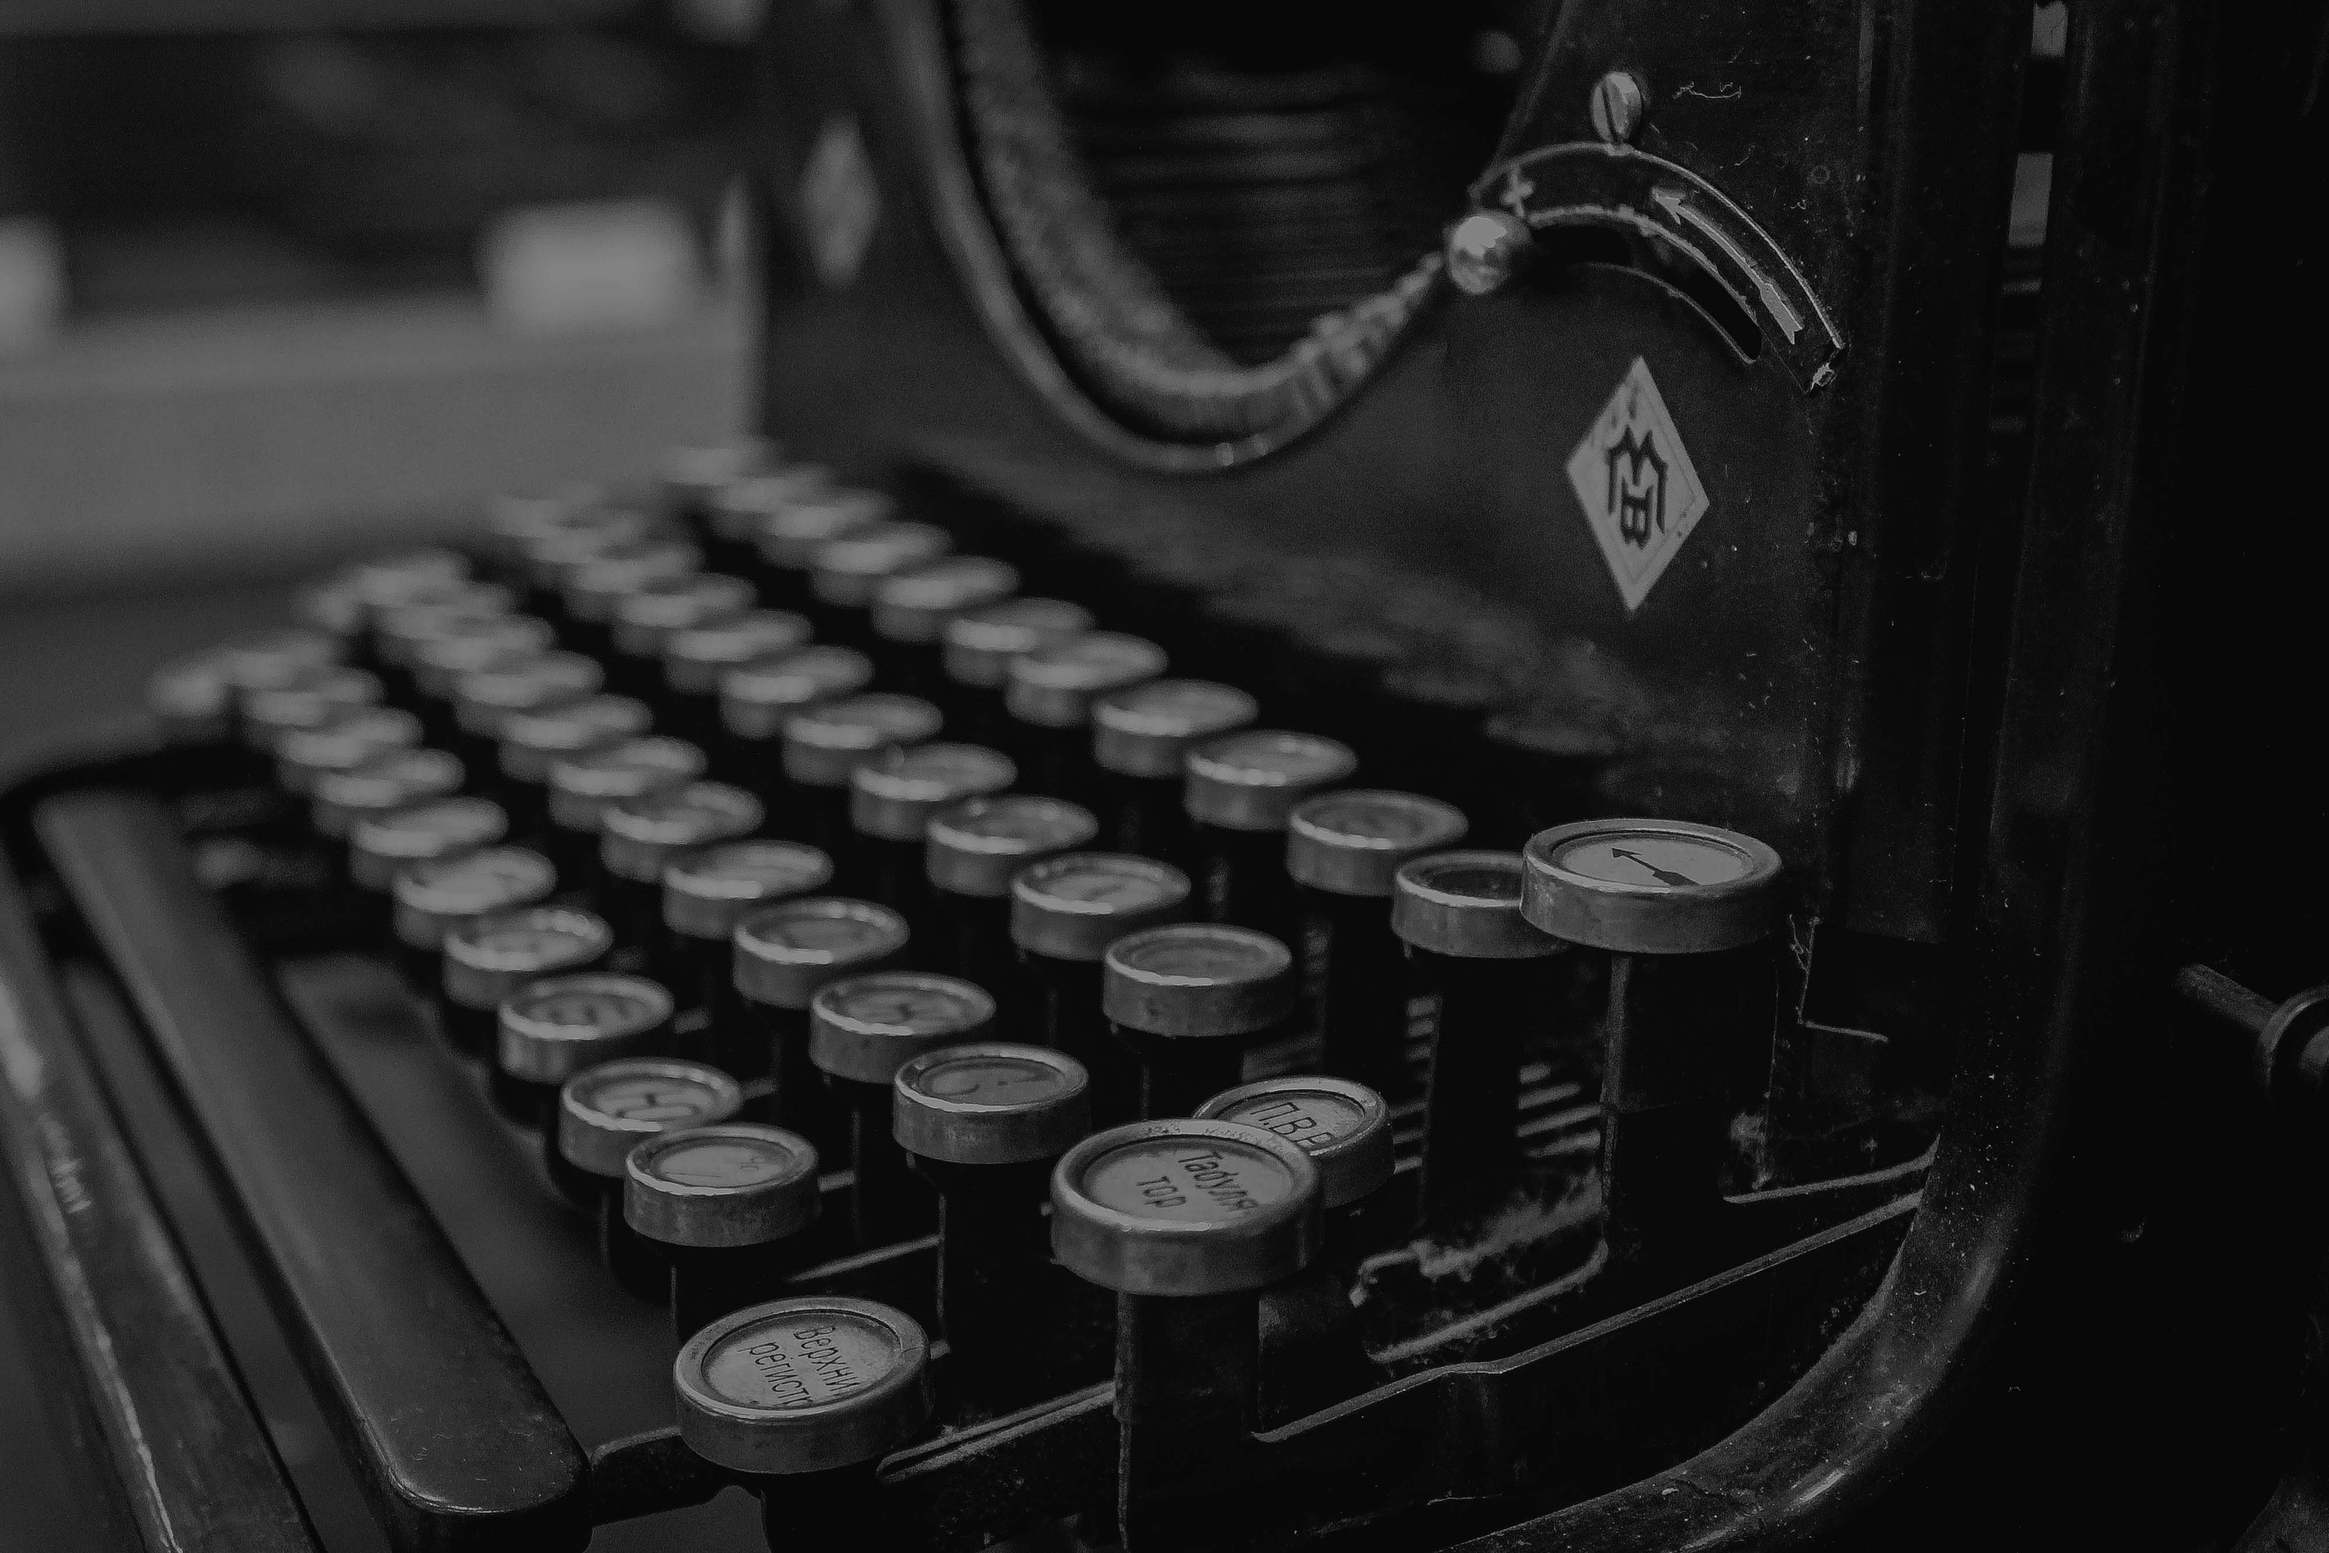
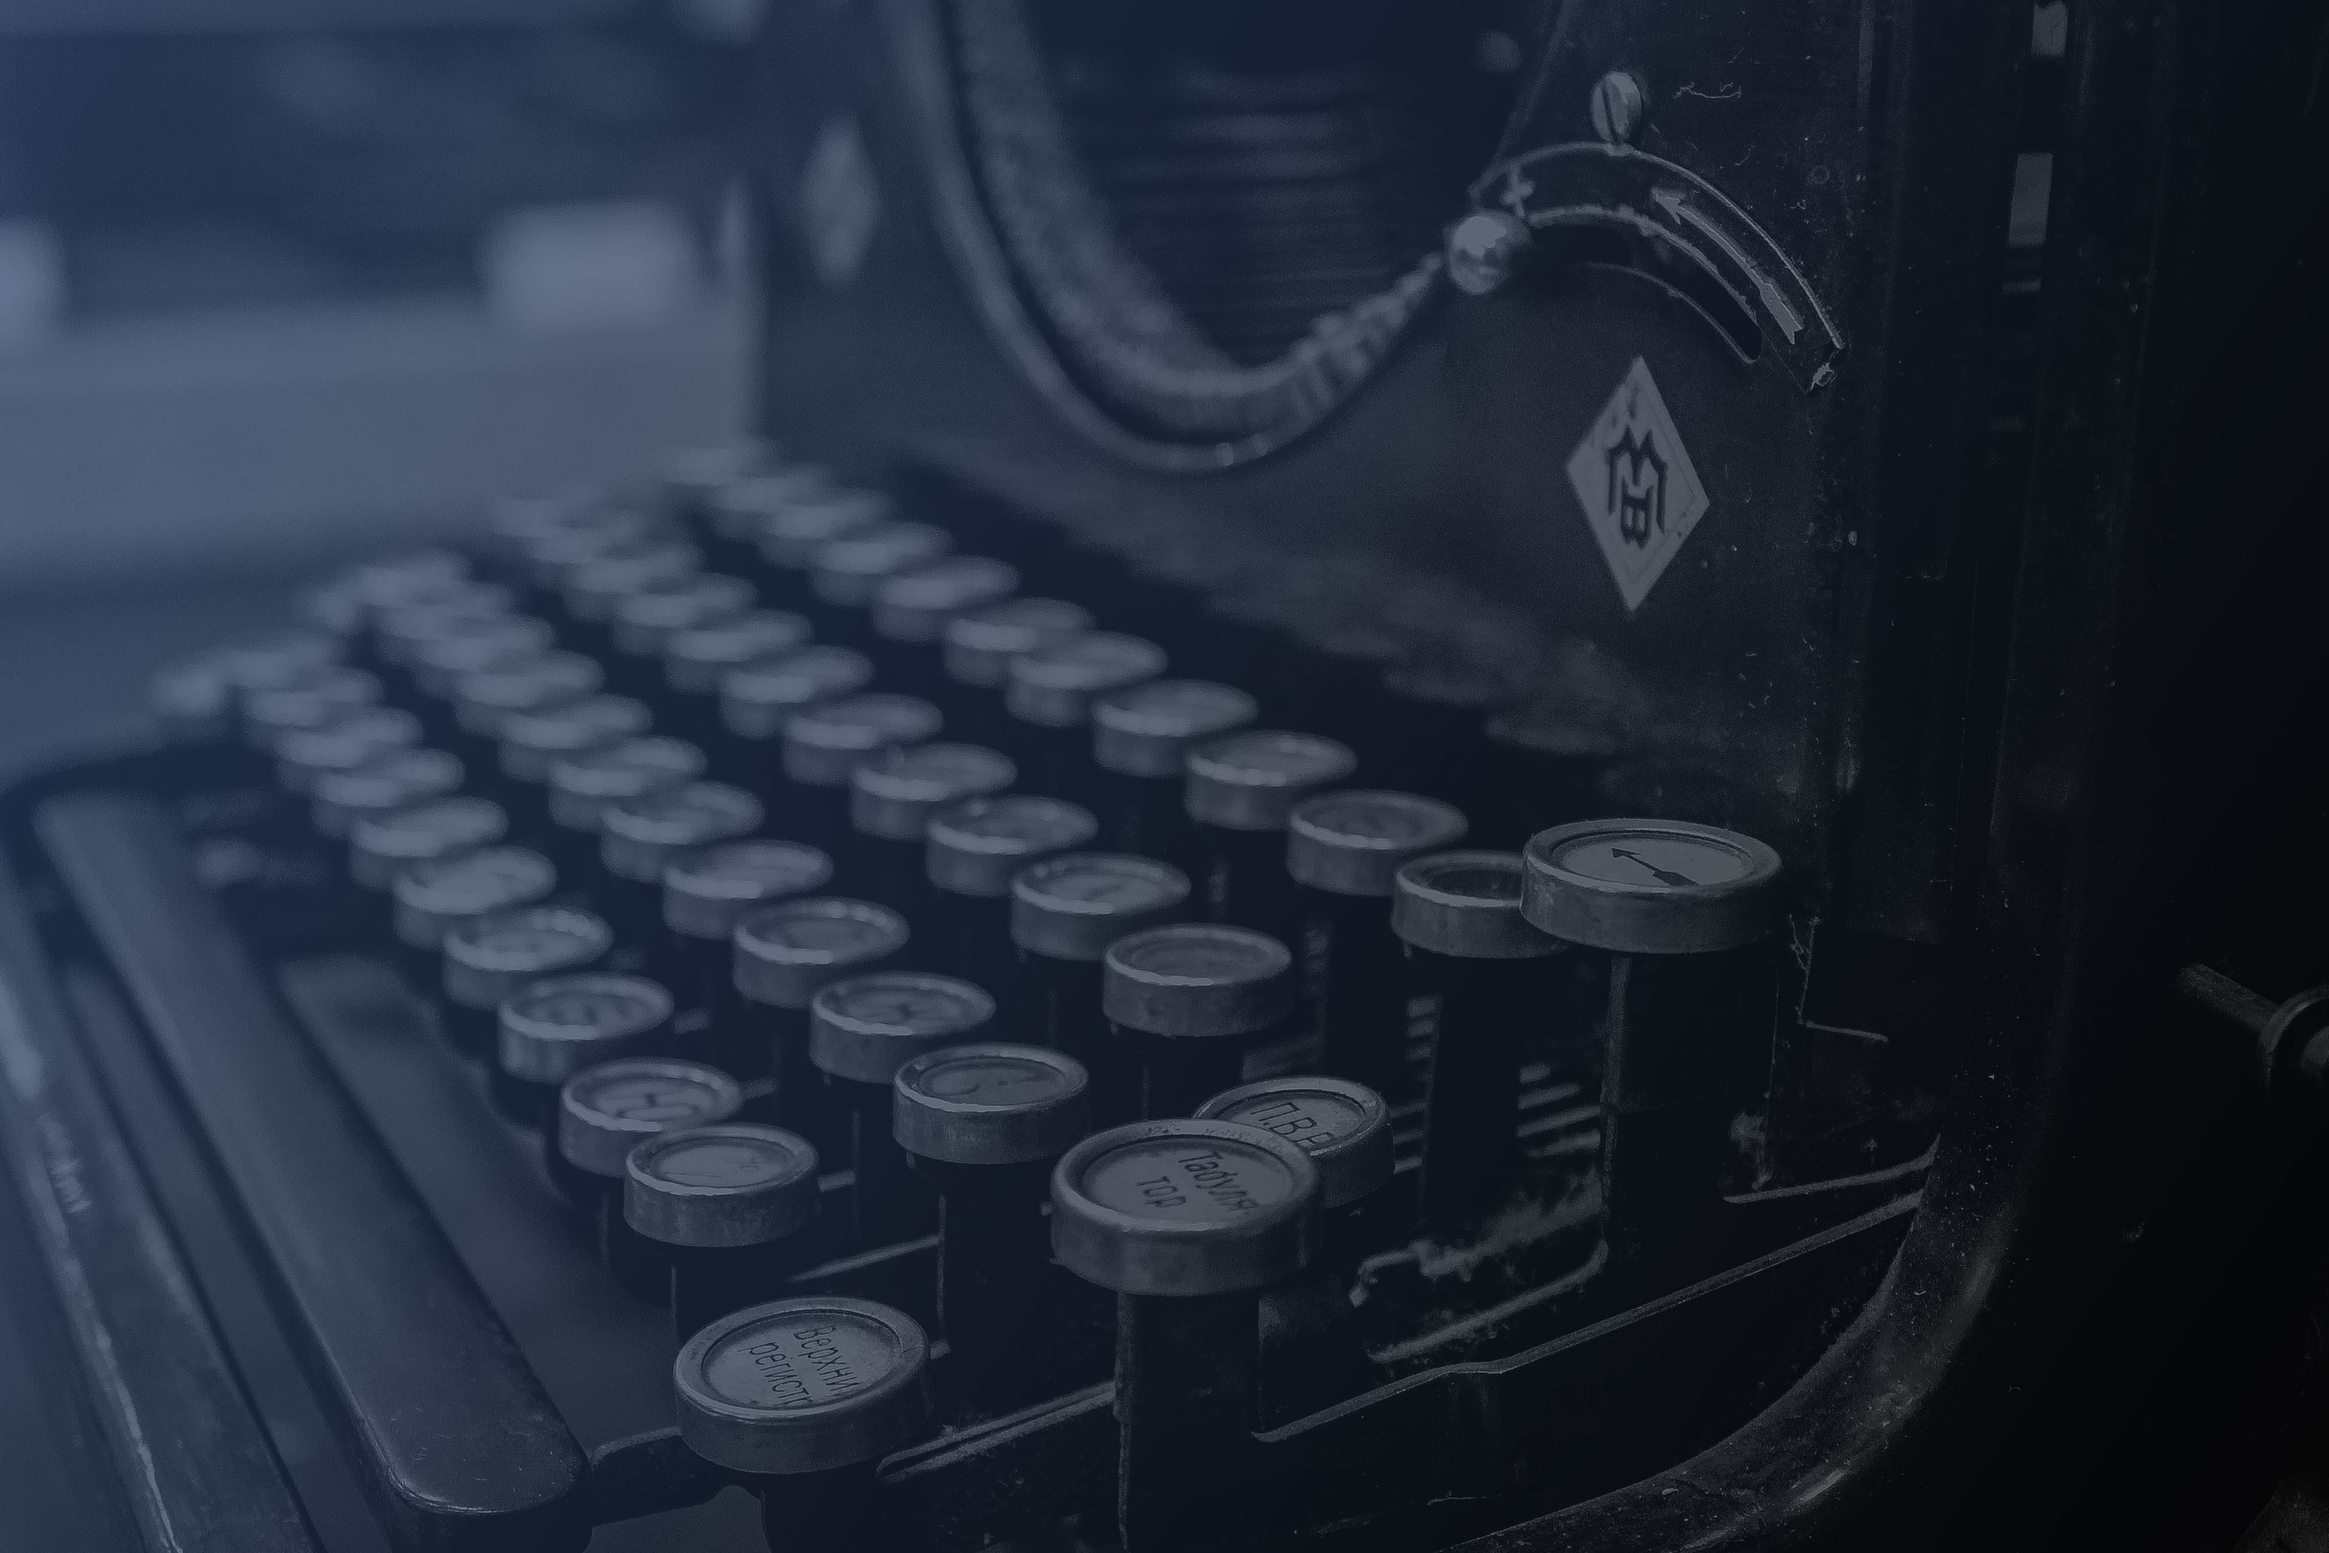
Added images to all pages and gave all images a blue tint + all improvements and changes have been done

diff --git a/css/main.scss b/css/main.scss
@@ -75,7 +75,7 @@ body {
 
 #our-creators--header {
 	position: relative;
-	background: #436aaf;
+	background: #4268ab;
 	height: 100px;
 	width: 100%;
 }
@@ -131,13 +131,12 @@ body {
 
 #apply {
 	position: relative;
-	background: #446cb3;
+	background: #4065a7;
 	height: 200px;
 	width: 100%;
 }
 
 #apply .btn-lg {
-	border-radius: 5px;
 	padding: 1% 15%;
 	margin-top: 55px;
 	margin-bottom: 55px;
@@ -269,15 +268,28 @@ p.copyright {
 
 /* About Page */
 
+.about-page {
+	position: absolute;
+	height: 100%;
+	width: 100%;
+  margin-top: -80px;
+  padding-bottom: 50px;
+  text-align: center;
+  background: url(../images/about-bg.jpg) no-repeat center center;
+  background-size: cover;
+	z-index: -1;
+}
+
 .letter {
   background: #fff;
   box-shadow: 0 0 10px rgba(0,0,0,0.2);
-  margin: 9% auto 0;
+  margin: 11% auto 0;
   max-width: 550px;
   min-height: 300px;
   padding: 24px;
   position: relative;
   width: 80%;
+	z-index: 999;
 }
 
 .letter h2 {
@@ -417,6 +429,39 @@ p.copyright {
 
 /* Compare Page */
 
+.compare-header {
+	margin-top: -80px; /* If you're making other pages, make sure there is 50px of padding to make sure the navbar doesn't overlap content! */
+	padding-bottom: 50px;
+	text-align: center;
+	color: #f8f8f8;
+	height: 200px;
+	background: url(../images/compare-bg.jpg) no-repeat center center;
+	background-size: cover;
+}
+
+.compare-message {
+	position: relative;
+	padding-top: 10%;
+	padding-bottom: 10%;
+}
+
+.compare-message > h2 {
+	margin: -25px 0;
+	text-shadow: 2px 2px 3px rgba(0,0,0,0.6);
+}
+
+@media(max-width:767px) {
+	.compare-message {
+			padding-bottom: 5%;
+	}
+}
+
+@media (max-width:467px) {
+	.compare-message > h2 {
+		margin: 25px 0;
+	}
+}
+
 .sub-title {
 	font-size: 10px;
 	margin: -5px -2px 0 0;
@@ -424,6 +469,8 @@ p.copyright {
 }
 
 .table th, .table td, .table {
+	margin-top: 30px;
+	margin-bottom: 30px;
 	border-top: none !important;
 }
 
@@ -459,7 +506,7 @@ tbody .kickback {
 	position: absolute;
 	height: 100%;
 	width: 100%;
-  margin-top: -30px;
+  margin-top: -80px;
   padding-bottom: 50px;
   text-align: center;
   color: #f8f8f8;
@@ -499,7 +546,7 @@ select.input-lg,
 	position: absolute;
 	height: 100%;
 	width: 100%;
-  margin-top: -30px;
+  margin-top: -80px;
   padding-bottom: 50px;
   text-align: center;
   color: #f8f8f8;
@@ -533,32 +580,33 @@ select.input-lg,
 }
 
 /* Jobs Page */
+
 .jobs-header {
-    margin-top: -30px; /* If you're making other pages, make sure there is 50px of padding to make sure the navbar doesn't overlap content! */
-    padding-bottom: 50px;
-    text-align: center;
-    color: #f8f8f8;
-    background: url(../images/jobs-bg.jpg) no-repeat center center;
-    background-size: cover;
+	margin-top: -80px; /* If you're making other pages, make sure there is 50px of padding to make sure the navbar doesn't overlap content! */
+	padding-bottom: 50px;
+	text-align: center;
+	color: #f8f8f8;
+	background: url(../images/jobs-bg.jpg) no-repeat center center;
+	background-size: cover;
 }
 
 .jobs-message {
-    position: relative;
-    padding-top: 10%;
-    padding-bottom: 10%;
+	position: relative;
+	padding-top: 10%;
+	padding-bottom: 10%;
 }
 
 .jobs-message > h1 {
-    margin: 0;
-    text-shadow: 2px 2px 3px rgba(0,0,0,0.6);
+	margin: 0;
+	text-shadow: 2px 2px 3px rgba(0,0,0,0.6);
 }
 
 .jobs-message > h3 {
-    text-shadow: 2px 2px 3px rgba(0,0,0,0.6);
+	text-shadow: 2px 2px 3px rgba(0,0,0,0.6);
 }
 
 @media(max-width:767px) {
-    .jobs-message {
-        padding-bottom: 5%;
-    }
+	.jobs-message {
+			padding-bottom: 5%;
+	}
 }

diff --git a/compare.html b/compare.html
@@ -3,11 +3,21 @@ layout: default
 permalink: compare/
 ---
 
+<div class="compare-header"> <!-- start intro header -->
+  <div class="container"> <!-- start intro container -->
+		<div class="row">
+			<div class="col-lg-12">
+				<div class="compare-message">
+					<h2>Compare Kickback to YouTube's Leading Networks.</h2>
+				</div>
+			</div>
+		</div>
+  </div>
+</div>
+
 <div class="container">
 	<div class="row">
 		<div class="col-xs-12">
-			<h2 class="text-center">Compare Kickback to YouTube's Leading Networks.</h2>
-			<hr>
 			<table class="table table-striped">
 				<thead class="text-center">
 					<tr class="logos">

diff --git a/_sass/kickback/_variables.scss b/_sass/kickback/_variables.scss
@@ -42,7 +42,7 @@ $link-hover-decoration: underline;
 //
 //## Font, line-height, and color for body text, headings, and more.
 
-$font-family-sans-serif:  "proxima-nova-soft",sans-serif;;
+$font-family-sans-serif:  "open-sans",sans-serif;
 $font-family-serif:       Georgia, "Times New Roman", Times, serif;
 //** Default monospace fonts for `<code>`, `<kbd>`, and `<pre>`.
 $font-family-monospace:   Menlo, Monaco, Consolas, "Courier New", monospace;

diff --git a/index.html b/index.html
@@ -17,7 +17,7 @@ layout: default
 														</a>
 													</li>
 													<li>
-														<a class="btn btn-primary btn-lg page-scroll" href="benefits.html">
+														<a class="btn btn-default btn-lg page-scroll" href="benefits.html">
 															Learn More
 														</a>
 													</li>

diff --git a/_sass/kickback/_bootswatch.scss b/_sass/kickback/_bootswatch.scss
@@ -2,6 +2,7 @@
 // Bootswatch
 // -----------------------------------------------------
 
+@import url(http://fonts.googleapis.com/css?family=Open+Sans);
 
 // Navbar =====================================================================
 
